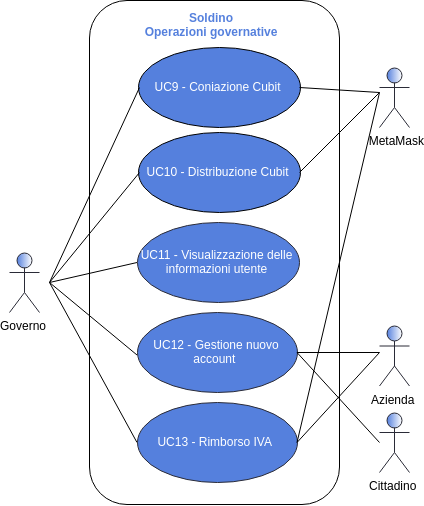
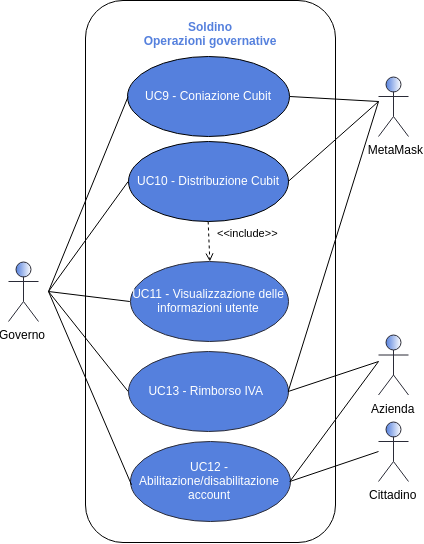
risteso UC12

diff --git a/RR/Esterni/Analisi_dei_requisiti/res/sections/UC/UC12-13NuovoAccount.tex b/RR/Esterni/Analisi_dei_requisiti/res/sections/UC/UC12-13NuovoAccount.tex
@@ -1,78 +1,81 @@
-\subsubsection{UC12 - Validazione nuovo account registrato}
+\subsubsection{UC12 - Abilitazione/disabilitazione account}
 \begin{figure}[h]
-	\includegraphics[width=15.5cm]{res/images/UC12Validazione.png} %da adattare in larghezza
+	\includegraphics[width=8cm]{res/images/UC12-Generale.png}
 	\centering
-	\caption{UC12 - Validazione nuovo account registrato}
-	
+	\caption{UC12 - Abilitazione/disabilitazione account}
 \end{figure}
 \begin{itemize}
 	\item \textbf{Attori Primari}:
 	governo;
 	\item \textbf{Attori Secondari}:
-	utente non autenticato;
-	\item \textbf{Descrizione}: l'account utente può venire rigettato o approvato dal governo;
-	\item \textbf{Scenario principale}: l'utente si è registrato al sistema ma è ancora in attesa di una risposta da parte del governo in merito alla validazione del proprio account. Il flusso degli eventi è il seguente:
-	\begin{enumerate}[label=\alph*.]
-		\item il governo ottiene la lista delle aziende in lista di attesa [UC11.3];
-		\item il governo approva [UC12.1] o rifiuta [UC12.2] la richiesta di iscrizione;
-	\end{enumerate}
-	\item \textbf{Precondizione}: l'utente è in coda di attesa per la validazione dell'account;
-	\item \textbf{Postcondizione}: l'account utente viene approvato o rigettato. 
-\end{itemize}
-\subsubsection{UC12.1 - Approvazione nuovo account}
-\begin{itemize}
-	\item \textbf{Attori Primari}:
-	governo;
-	\item \textbf{Attori Secondari}:
-	utente non autenticato;
-	\item \textbf{Descrizione}: l'account utente viene approvato;
-	\item \textbf{Scenario principale}: in seguito alla registrazione, il governo riconosce validi i dati immessi dall'utente;
-	\item \textbf{Inclusioni}:
+	azienda, cittadino;
+	\item \textbf{Descrizione}: il governo può gestire gli account degli utenti registrati alla piattaforma, in particolare può:
 	\begin{itemize}
-		\item \textbf{UC12.3}: in seguito all'approvazione dell'account, l'utente visualizza una breve e concisa guida su come effettuare l'autenticazione al sito;
+		\item abilitare un account;
+		\item disabilitare un account, lasciando un messaggio relativo alla causa di tale provvedimento;
 	\end{itemize}
-	\item \textbf{Precondizione}: l'utente ha portato a termine la richiesta di registrazione ed è ancora in attesa di verifica;
-	\item \textbf{Postcondizione}: l'utente è stato verificato e può visualizzare il modo corretto per effettuare il login alla piattaforma.
-	
-\end{itemize}
-\subsubsection{UC12.2 - Rifiuto nuovo account}
-\begin{itemize}
-	\item \textbf{Attori Primari}:
-	governo;
-	\item \textbf{Attori Secondari}:
-	utente non autenticato;
-	\item \textbf{Descrizione}: l'account utente viene rifiutato;
-	\item \textbf{Scenario principale}: in seguito alla registrazione, il governo riconosce non validi i dati immessi dall'utente;
-	\item \textbf{Inclusioni}:
+	\item \textbf{Scenario principale}: il governo visualizza la lista degli utenti, aziende [UC11.1] o cittadini [11.2]. Per ognuna di esse ha la possibilità di abilitare l'account o disabilitarlo premendo l'apposito pulsante;
+	\item \textbf{Inclusioni}: 
 	\begin{itemize}
-		\item \textbf{UC12.4}: in seguito al rigetto  dell'account, l'utente visualizza dettagli aggiuntivi del perchè non è stato accettato;
+		\item \textbf{UC11}: l'utente per poter abilitare/disabilitare un account deve accedere ad una lista di utenti registrati alla piattaforma [UC11];
 	\end{itemize}
-	\item \textbf{Precondizione}: l'utente ha portato a termine la richiesta di registrazione ed è ancora in attesa di verifica;
-	\item \textbf{Postcondizione}: l'utente risulta rifiutato e riceve le informazioni relative a tale rifiuto.
-	
-\end{itemize}
-\subsubsection{UC12.3 - Visualizzazione istruzioni per loggarsi tramite MetaMask\glosp}
-\begin{itemize}
-	\item \textbf{Attori Primari}:
-	governo;
-	\item \textbf{Attori Secondari}:
-	utente non autenticato;
-	\item \textbf{Descrizione}: l'utente, durante il primo tentativo di accesso alla piattaforma dopo l'approvazione dell'account, visualizza una guida contenente le istruzioni per procedere al login tramite MetaMask\glo;
-	\item \textbf{Scenario principale}: in seguito all'approvazione dell'account, l'utente cerca di effettuare il suo primo login, e gli vengono fornite tutte le istruzioni necessarie;
-	\item \textbf{Precondizione}: l'utente è stato verificato e tenta di eseguire per la prima volta il login;
-	\item \textbf{Postcondizione}: l'utente possiede le conoscenze necessarie al fine di conseguire un login corretto e sicuro tramite il plugin MetaMask\glo.
-\end{itemize}
-\subsubsection{UC12.4 - Visualizzazione informazioni aggiuntive in merito al rigetto dell'account}
-\begin{itemize}
-	\item \textbf{Attori Primari}:
-	governo;
-	\item \textbf{Attori Secondari}:
-	utente non autenticato;
-	\item \textbf{Descrizione}: l'utente visualizza le informazioni aggiuntive relative al rigetto del proprio account;
-	\item \textbf{Scenario principale}: in seguito al rifiuto dell'account, l'utente riceve le informazioni relative a tale rigetto da parte del governo;
-	\item \textbf{Precondizione}: l'utente non ha idea del perchè non è stato accettato;
-	\item \textbf{Postcondizione}: l'utente riconosce di aver inserito dati falsi o contenenti errori, pertanto dovrà riprovare la registrazione.
+	\item \textbf{Precondizione}: l'utente governativo sta visualizzando una lista di utenti registrati al sistema, e può quindi accedere al pulsante per l'abilitazione o disabilitazione dell'account di un cittadino;
+	\item \textbf{Postcondizione}: l'account dell'utente selezionato è stato abilitato o disabilitato. Nel caso sia stato disabilitato, durante i prossimi tentativi di autenticazione, tale utente riceverà l'errore di "account disabilitato" [UC3.3].
 \end{itemize} 
+
+\subsubsection{UC12.1 - Abilitazione account}
+\begin{itemize}
+	\item \textbf{Attori Primari}:
+	governo;
+	\item \textbf{Attori Secondari}:
+	azienda, cittadino;
+	\item \textbf{Descrizione}: il governo può abilitare l'account di un utente;
+	\item \textbf{Scenario principale}: il governo visualizza la lista degli utenti, aziende [UC11.1] o cittadini [11.2]. Per ogni utente il cui stato dell'account risulta "disabilitato", può effettuare l'abilitazione premendo sul pulsante dedicato;
+	\item \textbf{Inclusioni}: 
+	\begin{itemize}
+		\item \textbf{UC11}: l'utente per poter abilitare un account deve accedere ad una lista di utenti registrati alla piattaforma [UC11];
+	\end{itemize}
+	\item \textbf{Precondizione}: l'utente governativo sta visualizzando una lista di utenti registrati al sistema, preme il pulsante di abilitazione dell'account relativo ad un utente il quale stato dell'account risulta "disabilitato";
+	\item \textbf{Postcondizione}: lo stato  dell'account utente sopra menzionato risulta "abilitato".
+\end{itemize} 
+
+
+\subsubsection{UC12.2 - Disabilitazione account}
+\begin{itemize}
+	\item \textbf{Attori Primari}:
+	governo;
+	\item \textbf{Attori Secondari}:
+	azienda, cittadino;
+	\item \textbf{Descrizione}: il governo può disabilitare l'account di un utente;
+	\item \textbf{Scenario principale}: il governo visualizza la lista degli utenti, aziende [UC11.1] o cittadini [11.2]. Per ogni utente il cui stato dell'account risulta "abilitato", può effettuare la disabilitazione premendo sul pulsante dedicato;
+	\item \textbf{Inclusioni}: 
+	\begin{itemize}
+		\item \textbf{UC11}: l'utente per poter disabilitare un account deve accedere ad una lista di utenti registrati alla piattaforma [UC11];
+		\item \textbf{UC12.3}: durante la disabilitazione l'utente governativo può inserire un messaggio personalizzato per spiegare all'utente il motivo della disabilitazione dell'account;
+	\end{itemize}
+	\item \textbf{Precondizione}: l'utente governativo sta visualizzando una lista di utenti registrati al sistema, preme il pulsante di disabilitazione dell'account relativo ad un utente il quale stato dell'account risulta "abilitato";
+	\item \textbf{Postcondizione}: lo stato  dell'account utente sopra menzionato risulta "disabilitato".Durante i prossimi tentativi di autenticazione, tale utente riceverà l'errore di "account disabilitato" [UC3.3].
+\end{itemize} 
+
+\subsubsection{UC12.3 - Messaggio di disabilitazione}
+\begin{itemize}
+	\item \textbf{Attori Primari}:
+	governo;
+	\item \textbf{Attori Secondari}:
+	azienda, cittadino;
+	\item \textbf{Descrizione}: il governo può inserire un messaggio personalizzato all'utente al quale sta disabilitando l'account riferendo la causa di tale disabilitazione;
+	\item \textbf{Scenario principale}: il governo visualizza una lista di utenti registrati [UC11]:
+	\begin{enumerate}[label=\alph*.]
+		\item l'utente disabilita l'account di un utente il quale stato dell'account risulta "abilitato" [UC12.2];
+		\item il sistema propone una casella di testo nella quale l'utente governativo può inserire la causa della disabilitazione dell'account;
+		\item l'utente conferma e salva tale messaggio. Durante i prossimi tentativi di autenticazione, l'utente al quale è stato disabilitato l'account, riceverà l'errore di "account disabilitato" [UC3.3];
+	\end{enumerate}
+	 
+	\item \textbf{Precondizione}: l'utente governativo sta disabilitando l'account di un utente;
+	\item \textbf{Postcondizione}: l'utente governativo ha inserito un messaggio contenente la causa della disabilitazione dell'account ed ha salvato e confermato tale messaggio.
+\end{itemize}
+
+
 \subsubsection{UC13 - Rimborso IVA}
 \begin{itemize}
 	\item \textbf{Attori Primari}:

diff --git a/RR/Esterni/Analisi_dei_requisiti/res/sections/UC/UC11-GestioneUtenti.tex b/RR/Esterni/Analisi_dei_requisiti/res/sections/UC/UC11-GestioneUtenti.tex
@@ -1,6 +1,6 @@
  \subsubsection{UC11 - Visualizzazione delle informazioni utente}
  \begin{figure}[h]
- 	\includegraphics[width=9cm]{res/images/UC11.png}
+ 	\includegraphics[width=7cm]{res/images/UC11-Generale.png}
  	\centering
  	\caption{UC11 - Visualizzazione delle informazioni utente}
  	
@@ -9,8 +9,9 @@
  	\item \textbf{Attori Primari}: governo;
  	\item \textbf{Descrizione}: il governo può accedere alle informazioni riguardanti:
  	\begin{itemize}
- 		\item le aziende ed i cittadini registrati alla piattaforma;
- 		\item le aziende che hanno effettuato la richiesta di registrazione;
+ 		\item le aziende registrate alla piattaforma;
+ 		\item i cittadini registrati alla piattaforma;
+
  	\end{itemize}
  	\item \textbf{Scenario principale}: il governo accede alle informazioni riguardanti gli utenti della piattaforma ed alle eventuali relative operazioni disponibili;
 
@@ -18,55 +19,34 @@
  	
  	\item \textbf{Postcondizione}: il governo ottiene dal sistema le liste degli utenti con le eventuali operazioni disponibili.
  \end{itemize}
- \subsubsection{UC11.1 - Visualizzazione lista aziende}
- \begin{itemize}
- 	\item \textbf{Attori Primari}: governo;
- 	\item \textbf{Descrizione}: il governo accede alla lista delle aziende, nella quale vengono mostrate tutte le informazioni utili ed operazioni disponibili. In particolare avviene la visualizzazione:
- 	\begin{itemize}
- 		\item della chiave\glosp Ethereum;
- 		\item del nome;
- 		\item della partita IVA;
- 		\item sede dell'azienda (indirizzo);
- 	\end{itemize}
- 	\item \textbf{Scenario principale}: il governo vuole visualizzare la lista di tutte le aziende:
- 	\begin{enumerate}[label=\alph*.]
- 		\item iscritte alla piattaforma, con le relative informazioni riguardanti l'IVA [UC11.2];
- 		\item che attualmente hanno fatto richiesta di registrazione alla piattaforma, ed eventualmente gestirne la richiesta [UC11.3];
- 	\end{enumerate}
-	\item \textbf{Specializzazione}:
-	\begin{itemize}
-	 	\item \textbf{UC11.2}: il governo vuole ottenere le informazioni relative alle aziende che sono già registrate alla piattaforma. In questo caso saranno presenti anche delle informazioni riguardati la situazione IVA delle aziende;
-	 	\item \textbf{UC11.3}: il governo vuole ottenere le informazioni relative alle aziende che sono in attesa di essere approvate. Da questa vista verranno offerte al governo le operazioni di approvazione/rigetto della richiesta;
-	\end{itemize}
- 	\item \textbf{Precondizione}: il governo ha richiesto le informazioni relative alle aziende;
- 	\item \textbf{Postcondizione}: il governo ottiene dal sistema la lista delle aziende cercate, con le relative operazioni disponibili.
-\end{itemize}
-\subsubsection{UC11.2 - Visualizzazione lista aziende registrate}
- \begin{itemize}
-	\item \textbf{Attori Primari}: governo;
-	\item \textbf{Descrizione}: il governo visualizza la lista delle aziende registrate alla piattaforma. Per ogni azienda è reso disponibile, oltre alle informazioni di base [UC11.1], lo stato del pagamento del saldo IVA, ovvero può controllare se l'azienda risulta:
-	\begin{itemize}
-		\item \textbf{insolvente}: non ha ancora provveduto alla liquidazione IVA di almeno uno dei trimestri precedenti entro i termini fissati;
-		\item \text{in fase di pagamento}: l'azienda deve ancora effettuare il versamento IVA riguardante l'ultimo trimestre, ed i termine del pagamento non è ancora scaduto. Nei trimestri antecedenti la situazione risulta "regolare";
-	    \item \textbf{in dilazione}: in caso l'azienda abbia richiesto il pagamento dilazionato del saldo IVA a debito ed il termine della dilazione non è ancora scaduto;
-		\item \textbf{regolare}: l'azienda ha provveduto al pagamento del saldo IVA a debito del trimestre precedente oppure ha ricevuto il rimborso nel caso in cui sia risultata "In attesa di rimborso" nel trimestre precedente;
-		\item \textbf{in attesa di rimborso}: nel trimestre precedente il saldo IVA è risultato a credito, e non è ancora stato effettuato il rimborso;
-	\end{itemize}
-	L'azienda può ricadere in uno solo trai casi sopra descritti. Lo stato di insolvenza di un trimestre precedente, ha la predominanza sugli stati dei trimestri successivi ad esso.
-	\item \textbf{Scenario principale}: il governo richiede la lista delle aziende registrate e  già verificate;
-	\item \textbf{Precondizione}: il sistema riconosce che l'utente è autenticato con privilegi governativi ed ha richiesto di ottenere la lista di tutte aziende già verificate;
-	\item \textbf{Postcondizione}: il governo ottiene dal sistema la lista delle aziende registrate e verificate, con associate le operazioni che può effettuare su di esse.
-\end{itemize}
-\subsubsection{UC11.3 - Visualizzazione lista aziende in attesa di verifica}
 
-\begin{itemize}
+\subsubsection{UC11.1 - Visualizzazione lista aziende registrate}
+ \begin{itemize}
 	\item \textbf{Attori Primari}: governo;
-	\item \textbf{Descrizione}: il governo ottiene la lista delle aziende che sono in attesa di essere verificate per poter poi usufruire della piattaforma. Per ognuna di esse avrà la possibilità di accettare o rifiutare la richiesta;
-	\item \textbf{Scenario principale}: il governo richiede la lista delle aziende che sono in attesa di essere verificate;
-	\item \textbf{Precondizione}: il sistema riconosce che l'utente è autenticato con privilegi governativi ed ha richiesto di ottenere la lista di tutte le aziende in attesa di verifica;
-	\item \textbf{Postcondizione}: il governo ottiene dal sistema la lista delle aziende in attesa di verifica, con associate le operazioni che può effettuare su di esse.
+	\item \textbf{Descrizione}: il governo visualizza la lista delle aziende registrate alla piattaforma. Per ogni azienda sono rese disponibili le seguenti informazioni:
+	\begin{itemize}
+		\item della chiave\glosp Ethereum;
+		\item del nome;
+		\item della partita IVA;
+		\item sede dell'azienda (indirizzo);
+		\item lo stato di "abilitato" o "disabilitato";
+		\item lo stato del pagamento del saldo IVA, ovvero può controllare se l'azienda risulta:
+		\begin{itemize}
+			\item \textbf{insolvente}: non ha ancora provveduto alla liquidazione IVA di almeno uno dei trimestri precedenti entro i termini fissati;
+			\item \textbf{in fase di pagamento}: l'azienda deve ancora effettuare il versamento IVA riguardante l'ultimo trimestre, ed i termine del pagamento non è ancora scaduto. Nei trimestri antecedenti la situazione risulta "regolare";
+			\item \textbf{in dilazione}: in caso l'azienda abbia richiesto il pagamento dilazionato del saldo IVA a debito ed il termine della dilazione non è ancora scaduto;
+			\item \textbf{regolare}: l'azienda ha provveduto al pagamento del saldo IVA a debito del trimestre precedente oppure ha ricevuto il rimborso nel caso in cui sia risultata "In attesa di rimborso" nel trimestre precedente;
+			\item \textbf{in attesa di rimborso}: nel trimestre precedente il saldo IVA è risultato a credito, e non è ancora stato effettuato il rimborso;
+		\end{itemize}
+	L'azienda può ricadere in uno solo tra i casi sopra descritti. Lo stato di insolvenza di un trimestre precedente, ha la predominanza sugli stati dei trimestri successivi ad esso.
+	\end{itemize}
+	
+	\item \textbf{Scenario principale}: il governo richiede la lista delle aziende registrate;
+	\item \textbf{Precondizione}: il sistema riconosce che l'utente è autenticato con privilegi governativi ed ha richiesto di ottenere la lista di tutte aziende;
+	\item \textbf{Postcondizione}: il governo ottiene dal sistema la lista delle aziende registrate, con associate le operazioni che può effettuare su di esse.
 \end{itemize}
-\subsubsection{UC11.4 - Visualizzazione lista cittadini}
+
+\subsubsection{UC11.2 - Visualizzazione lista cittadini}
 \begin{itemize}
 	\item \textbf{Attori Primari}: governo;
 	\item \textbf{Descrizione}: il governo ottiene la lista dei cittadini. Per ognuno di essi può eseguire:
@@ -74,10 +54,9 @@
 		\item visualizzazione della chiave\glosp Ethereum;
 		\item visualizzazione del nome;
 		\item visualizzazione del cognome;
-		\item visualizzazione della codice fiscale;
 		\item visualizzazione dell'indirizzo di residenza;
 	\end{itemize}
-	\item \textbf{Scenario principale}: il governo richiede la lista dei cittadini. Per ognuno di essi visualizza alcune informazioni;
+	\item \textbf{Scenario principale}: il governo richiede la lista dei cittadini. Per ognuno di essi visualizza le rispettive informazioni;
 	\item \textbf{Precondizione}: il sistema riconosce che l'utente è autenticato con privilegi governativi ed ha richiesto di ottenere la lista di tutti i cittadini;
 	\item \textbf{Postcondizione}: il governo ottiene dal sistema la lista dei cittadini, con associate le operazioni che può effettuare su di essi.
 \end{itemize}

diff --git a/RR/Esterni/Analisi_dei_requisiti/res/sections/UC/UC14CompravenditaAzienda.tex b/RR/Esterni/Analisi_dei_requisiti/res/sections/UC/UC14CompravenditaAzienda.tex
@@ -14,39 +14,40 @@
 \subsubsection{UC14.1 - Visualizzazione ordini}
 \begin{itemize}
 	\item \textbf{Attori Primari}: azienda, cittadino;
-	\item \textbf{Descrizione}: alle aziende ed ai cittadini sono messe a disposizione diverse operazione per visualizzare e gestire gli ordini all'interno della piattaforma. \`E reso possibile avere un elenco dettagliato di tutti gli ordini, in particolare per ognuno di essi è presente la:
+	\item \textbf{Descrizione}: alle aziende ed ai cittadini sono messe a disposizione diverse operazioni per visualizzare e gestire gli ordini all'interno della piattaforma. \`E reso possibile avere un elenco dettagliato di tutti gli ordini, in particolare per ognuno di essi è presente la visualizzazione:
 	\begin{itemize}
-		\item visualizzazione della data dell'ordine;
-		\item visualizzazione del numero dell'ordine;
-		\item visualizzazione dei prodotti inclusi nell'ordine [UC5];
-		\item visualizzazione totale IVA;
-		\item visualizzazione prezzo lordo\glo;
+		\item della data dell'ordine;
+		\item del numero dell'ordine;
+		\item dei prodotti inclusi nell'ordine [UC5];
+		\item totale IVA;
+		\item prezzo lordo\glo;
+		\item indirizzo di spedizione;
 	\end{itemize}
-	\item \textbf{Scenario principale}: l'utente visualizza degli ordini per poi poterli gestire;
+	\item \textbf{Scenario principale}: l'utente visualizza gli ordini per poi poterli gestire;
 	\item \textbf{Inclusioni}:
 	\begin{itemize}
 		\item \textbf{UC5}: visualizzazione dei beni;
 	\end{itemize}
 	\item \textbf{Precondizione}: il sistema ha riconosciuto l'utente autenticato come azienda o cittadino e mette a disposizione tutte le pagine necessarie alla visualizzazione e gestione degli ordini;
-	\item \textbf{Postcondizione}: l'utente ha visualizzato e/o gestito i propri ordini.
+	\item \textbf{Postcondizione}: l'utente ha visualizzato l'elenco dei propri ordini.
 \end{itemize} 
 
 \subsubsection{UC14.2 - Visualizzazione vendite in attesa di approvazione}
 \begin{itemize}
 	\item \textbf{Attori Primari}: azienda;
-	\item \textbf{Descrizione}: all'azienda è messa a disposizione la possibilità di visualizzare le vendite effettuate ad altre aziende, che sono in attesa di approvazione;
-	\item \textbf{Scenario principale}: l'utente visualizza le vendite in attesa di approvazione tramite una vista dettagliata che include: 
+	\item \textbf{Descrizione}: all'azienda ha la possibilità di visualizzare le vendite effettuate ad altre aziende, che sono in attesa di approvazione;
+	\item \textbf{Scenario principale}: l'utente visualizza le vendite in attesa di approvazione tramite una vista dettagliata che include la visualizzazione di: 
 		\begin{itemize}
-		\item visualizzazione di tutte le informazioni dell'ordine [UC14.1];
-		\item visualizzazione della data ultima per l'approvazione;
-		\item visualizzazione nome azienda-cliente;
-		\item visualizzazione partita IVA dell'azienda-cliente;
+		\item le informazioni dell'ordine [UC14.1];
+		\item della data ultima per l'approvazione;
+		\item nome azienda-cliente;
+		\item partita IVA dell'azienda-cliente;
 		\end{itemize}
 		\item \textbf{Inclusioni}:
 	\begin{itemize}
 		\item \textbf{UC14.1}: Visualizzazione degli ordini;
 	\end{itemize}
-	\item \textbf{Precondizione}: il sistema ha riconosciuto l'utente autenticato come azienda visita la pagina per la visualizzazione delle vendite verso le aziende-clienti che sono ancora in attesa di approvazione;
+	\item \textbf{Precondizione}:l'utente visita la pagina per la visualizzazione delle vendite che sono in attesa di approvazione;
 	\item \textbf{Postcondizione}: l'utente ha visualizzato le proprie vendite in attesa di approvazione.
 \end{itemize} 
 
@@ -59,8 +60,8 @@
 	\begin{itemize}
 		\item \textbf{UC14.1}: Visualizzazione degli ordini;
 	\end{itemize}
-	\item \textbf{Precondizione}: il sistema ha riconosciuto l'utente autenticato come azienda o cittadino e questo ha espresso la volontà di visualizzare la lista degli acquisti conclusi;
-	\item \textbf{Postcondizione}: l'utente visualizza tale lista.
+	\item \textbf{Precondizione}: l'utente sta visitando la pagina contenente la lista degli acquisti conclusi;
+	\item \textbf{Postcondizione}: l'utente visualizza la lista degli acquisti conclusi.
 \end{itemize}
 
 \subsubsection{UC14.4 - Visualizzazione vendite concluse}
@@ -82,7 +83,7 @@
 	\item \textbf{Attori Primari}: azienda;
 	\item \textbf{Attori Secondari}: MetaMask\glo, azienda;
 	\item \textbf{Descrizione}: l'azienda può rifiutare una conferma d'acquisto\glo. Per effettuare l'operazione verrà utilizzato MetaMask\glo;
-	\item \textbf{Scenario principale}: l'utente visualizza una conferma d'acquisto che necessitano di approvazione e decide di rifiutarla;
+	\item \textbf{Scenario principale}: l'utente visualizza una conferma d'acquisto che necessita di approvazione e decide di rifiutarla;
 	\item \textbf{Inclusioni}: 
 	\begin{itemize}
 		\item \textbf{UC14.7}: visualizzazione delle conferme d'acquisto relative agli acquisti in attesa di approvazione;

diff --git a/RR/Esterni/Analisi_dei_requisiti/res/sections/UC/UC3-4-LoginLogout.tex b/RR/Esterni/Analisi_dei_requisiti/res/sections/UC/UC3-4-LoginLogout.tex
@@ -35,7 +35,7 @@
 		\item \textbf{UC2.6}: se l'utente non possiede una chiave\glosp su MetaMask\glo, esso viene avvisato tramite l'apposito messaggio di errore;
 		\item \textbf{UC3.2}: se l'utente tenta di accedere al sito tramite MetaMask\glosp senza aver mai provveduto a registrarsi, riceverà un messaggio di errore a riguardo;
 		
-		\item \textbf{UC3.3}: se l'utente si è registrato sul sito da poco ma non gli è ancora stato validato l'account, visualizzerà un messaggio di errore a riguardo.
+		\item \textbf{UC3.3}: se l'utente si è registrato ma il suo account è stato disabilitato;
 	\end{itemize}
 	\item \textbf{Precondizione}:
 	l'utente tenta di autenticarsi nella piattaforma;
@@ -55,17 +55,16 @@
 	\item \textbf{Postcondizione}:
 	l'utente è consapevole di dover registrarsi per poter poi accedere.
 \end{itemize}
-\subsubsection{UC3.3 - Visualizzazione schermata relativa a utente non verificato}
+\subsubsection{UC3.3 - Visualizzazione schermata relativa a utente non abilitato}
 \begin{itemize}
-	\item \textbf{Attori Primari}:
-	proprietario d'azienda;
+	\item \textbf{Attori Primari}: utente non autenticato;
 	\item \textbf{Descrizione}:
-	il proprietario d'azienda visualizza una schermata che esplica il fatto che il proprio account non è ancora stato verificato in seguito alla registrazione;
+	l'utente tenta di autenticarsi alla piattaforma, tuttavia, a causa della disabilitazione del suo account, il login viene interrotto, e l'utente visualizza il messaggio personalizzato lasciato dal governo che illustra la causa della disabilitazione dell'account;
 	\item \textbf{Scenario principale}:
-	il proprietario d'azienda, dopo aver effettuato la registrazione della propria attività, tenta il suo primo login, ma la richiesta viene rigettata, in quanto è a disposizione di un account non ancora validato;
+	l'utente non autenticato con account disabilitato tenta di autenticarsi. La procedura di autenticazione viene bloccata a causa dello stato dell'account;
 	\item \textbf{Precondizione}:
-	l'utente richiede il login alla piattaforma;
-	\item \textbf{Postcondizione}: l'utente è consapevole che dovrà attendere la validazione del propio account prima di procedere con il prossimo login.
+	un utente non autenticato, registrato alla piattaforma e con account disabilitato tenta di effettuare il login automatico;
+	\item \textbf{Postcondizione}: l'utente è consapevole che il proprio account è disabilitato, e può leggere la causa della disabilitazione del proprio account.
 \end{itemize}
 \subsubsection{UC4 - Logout}
 \begin{figure}[h]

diff --git a/RR/Esterni/Analisi_dei_requisiti/res/sections/UC/UC9-10-ConiazioneDistribuzioneCubit.tex b/RR/Esterni/Analisi_dei_requisiti/res/sections/UC/UC9-10-ConiazioneDistribuzioneCubit.tex
@@ -27,7 +27,7 @@
 	\item \textbf{Scenario principale}: il governo deve:
 	 \begin{enumerate}[label=\alph*.]
 		\item determinare l'ammontare di Cubit pro capite da trasferire [UC10.1];
-		\item  [UC10.2];
+		\item  selezionare la lista dei destinatari del trasferimento dalla lista degli utenti [UC10.2];
 		\item confermare l'operazione [UC10.3];
 	\end{enumerate}
 
@@ -47,9 +47,18 @@
 	\item \textbf{Attori Primari}: governo;
 	\item \textbf{Attori Secondari}: cittadino, azienda;
 	\item \textbf{Descrizione}: il governo inserisce nell'apposito form la lista dei destinatari della quantità di Cubit\glosp precedentemente inserita;
-	\item \textbf{Scenario principale}: il governo inserisce una lista di destinatari, identificati dalle proprie chiavi\glo;
+	\item \textbf{Scenario principale}: il governo:
+	\begin{enumerate}[label=\alph*.]
+		\item visualizza delle liste contenenti i cittadini e le aziende registrate al sito [UC11], che sono accompagnati da una checkbox;
+		\item l'utente può usare una barra di ricerca per individuare dei particolari utenti [UC11.3];
+		\item l'utente governativo spunta le caselle relative agli utenti ai quali intende trasferire la quantità di Cubit\glosp precedentemente definita;
+	\end{enumerate}
+	\item \textbf{Inclusioni}:
+	\begin{itemize}
+		\item \textbf{UC11}: per poter selezionare i destinatari, l'utente deve prima visualizzare la lista degli utenti registrati alla piattaforma;
+	\end{itemize}
 	\item \textbf{Precondizione}: il governo si trova nella pagina atta alla distribuzione dei Cubit;
-	\item \textbf{Postcondizione}: il governo dalla lista i destinatari e può procedere con l'approvazione della transazione.
+	\item \textbf{Postcondizione}: il governo ha selezionato uno o più destinatari dalle liste i degli utenti, e può procedere con l'approvazione della transazione.
 \end{itemize}
 \subsubsection{UC10.3 - Approvazione transazione}
 \begin{itemize}
